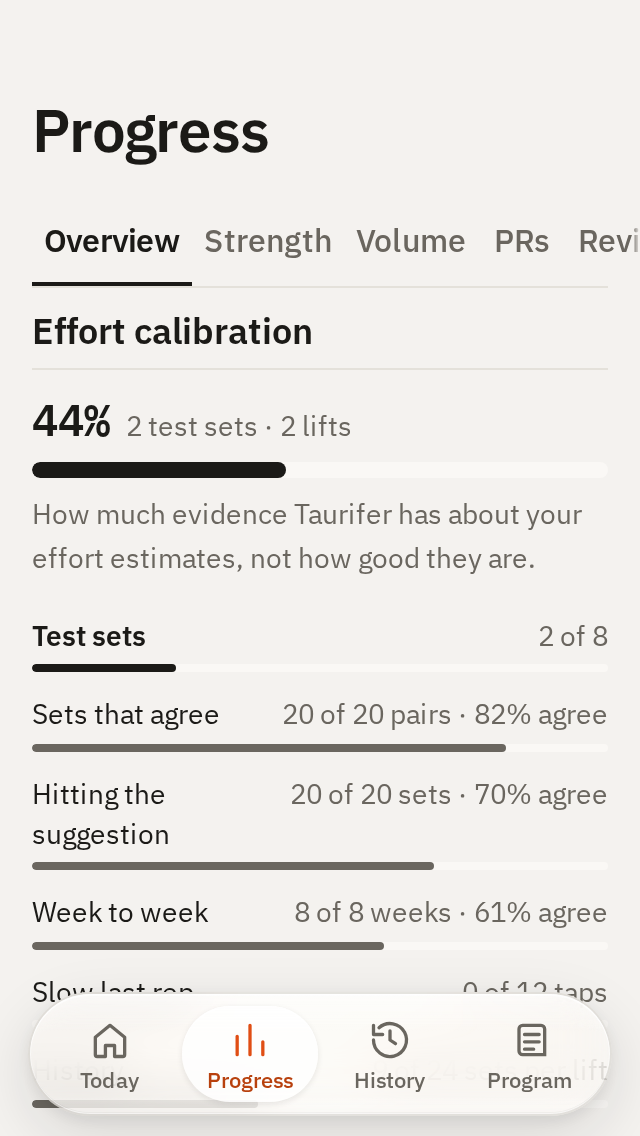
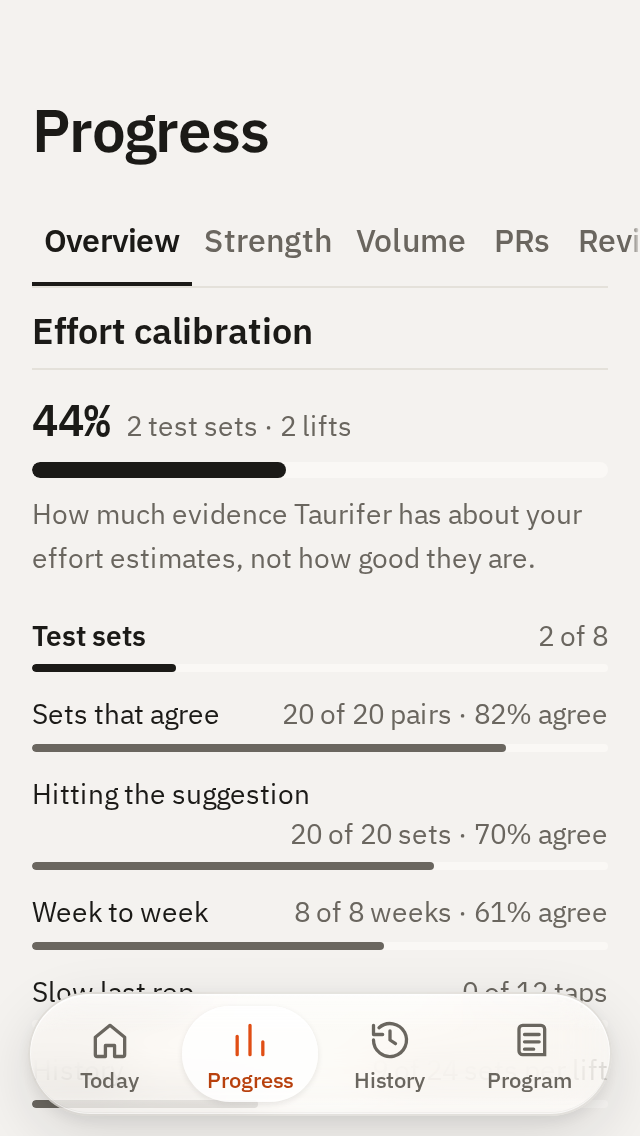
fix(calibration): the gauge's signal rows wrap at large text instead of overprinting
At 200 % text (PT especially) and at 320 the reading ("20 de 20 pares · 82%
concordam") ran into its label. The row is now a wrapping flex line: label and
reading share it while they fit, the reading drops under the label when they
don't, and the bar keeps its own line. styles.css and CACHE at v648.

Changed region(s): [[0.2812, 0.6778, 0.7188, 0.7394], [0.75, 0.6778, 0.9375, 0.7702], [0.0625, 0.7086, 0.25, 0.7702]]

diff --git a/styles.css b/styles.css
@@ -5247,10 +5247,13 @@ body.is-focus-wo .toast:not(.toast--top){bottom:calc(var(--toast-clear,0px) + va
 .calbar__fill{display:block;height:100%;border-radius:inherit;background:var(--ink)}
 .calcard__what,.calcard__fade{margin:var(--space-8) 0 0;font-family:var(--font-language);font-size:var(--font-size-body-small);line-height:var(--line-reading);color:var(--color-ink-secondary)}
 .calsigs{list-style:none;margin:var(--space-12) 0 0;padding:0}
-.calsig{display:grid;grid-template-columns:minmax(0,1fr) auto;column-gap:var(--space-8);align-items:baseline;padding:6px 0;
+/* The label and its reading share a line while they fit; at large text or a narrow screen the reading drops under the
+   label instead of overprinting it, and the bar always takes its own line. */
+.calsig{display:flex;flex-wrap:wrap;align-items:baseline;justify-content:space-between;column-gap:var(--space-8);padding:6px 0;
   font-family:var(--font-language);font-size:var(--font-size-body-small);line-height:var(--line-standard);color:var(--color-ink)}
-.calsig > span:nth-child(2){color:var(--color-ink-secondary);font-variant-numeric:tabular-nums}
-.calsig .calbar{grid-column:1/-1}
+.calsig > span:first-child{flex:1 1 auto;min-width:0;overflow-wrap:anywhere}
+.calsig > span:nth-child(2){flex:0 1 auto;min-width:0;margin-left:auto;text-align:right;color:var(--color-ink-secondary);font-variant-numeric:tabular-nums;overflow-wrap:anywhere}
+.calsig .calbar{flex:1 0 100%}
 .calsig:not(.calsig--lead) .calbar__fill{background:var(--color-ink-secondary)}
 .calsig--lead > span:first-child{font-weight:var(--weight-semibold)}
 .calchecks{list-style:none;margin:0;padding:0}

diff --git a/index.html b/index.html
@@ -33,7 +33,7 @@
   <link rel="apple-touch-startup-image" href="icons/splash-1640x2360.png" media="screen and (device-width: 820px) and (device-height: 1180px) and (-webkit-device-pixel-ratio: 2) and (orientation: portrait)">
   <link rel="apple-touch-startup-image" href="icons/splash-1668x2224.png" media="screen and (device-width: 834px) and (device-height: 1112px) and (-webkit-device-pixel-ratio: 2) and (orientation: portrait)">
   <link rel="apple-touch-startup-image" href="icons/splash-1536x2048.png" media="screen and (device-width: 768px) and (device-height: 1024px) and (-webkit-device-pixel-ratio: 2) and (orientation: portrait)">
-  <link rel="stylesheet" href="styles.css?v=645">
+  <link rel="stylesheet" href="styles.css?v=648">
   <link rel="stylesheet" href="motion-polish.css?v=643">
   <!-- Runs before the first paint, and only reads.
        Theme: app.js owns the Appearance setting, but it is the last script on the

diff --git a/sw.js b/sw.js
@@ -1,6 +1,6 @@
-const CACHE = "repforge-v646";
+const CACHE = "repforge-v648";
 const ASSETS = [
-  "./", "./index.html", "./styles.css", "./styles.css?v=645", "./motion-polish.css", "./motion-polish.css?v=643", "./manifest.webmanifest",
+  "./", "./index.html", "./styles.css", "./styles.css?v=648", "./motion-polish.css", "./motion-polish.css?v=643", "./manifest.webmanifest",
   { url: "./vendor/motion/motion.js", owner: "RepForgeMotion", required: false, immutable: true },
   { url: "./vendor/dnd-kit/dnd-kit.js", owner: "RepForgeDndRuntime", required: false },
   { url: "./vendor/dnd-kit/dnd-kit.runtime.js", owner: "RepForgeDndRuntime", required: false, immutable: true },
